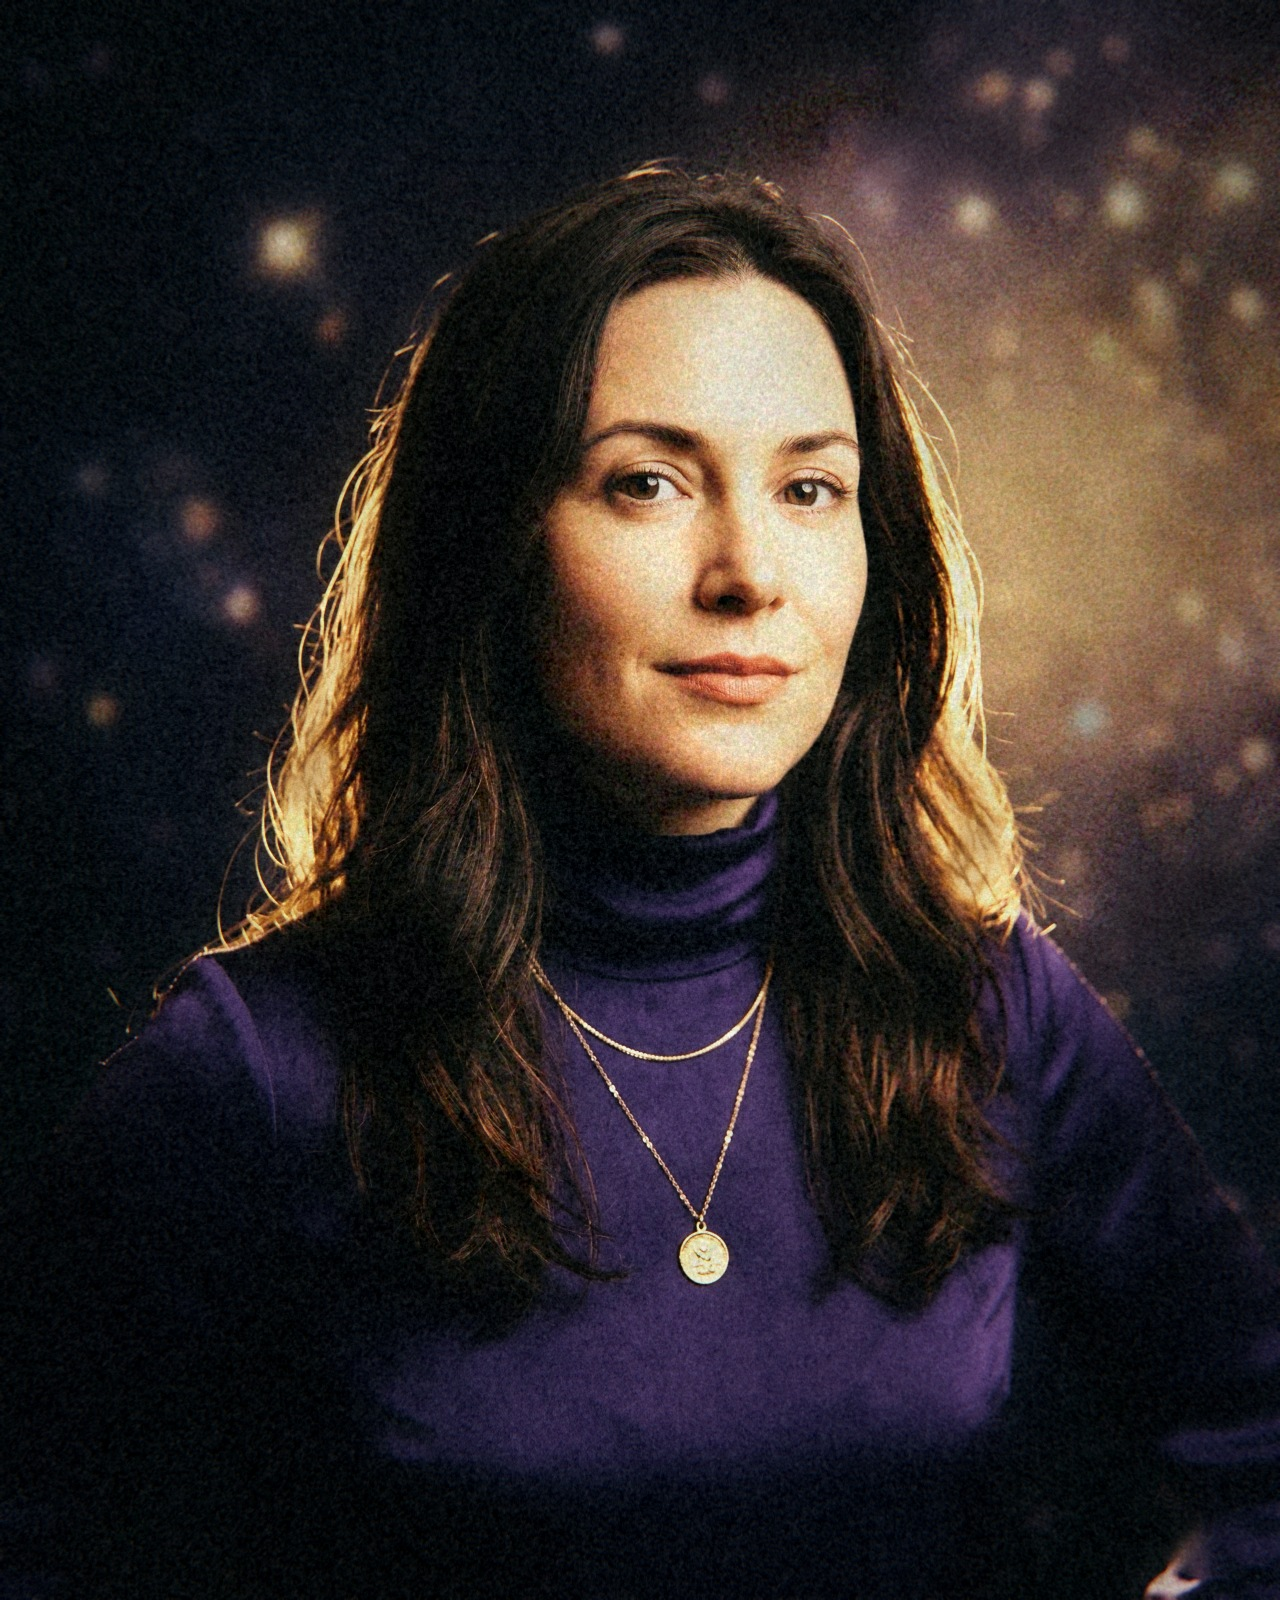
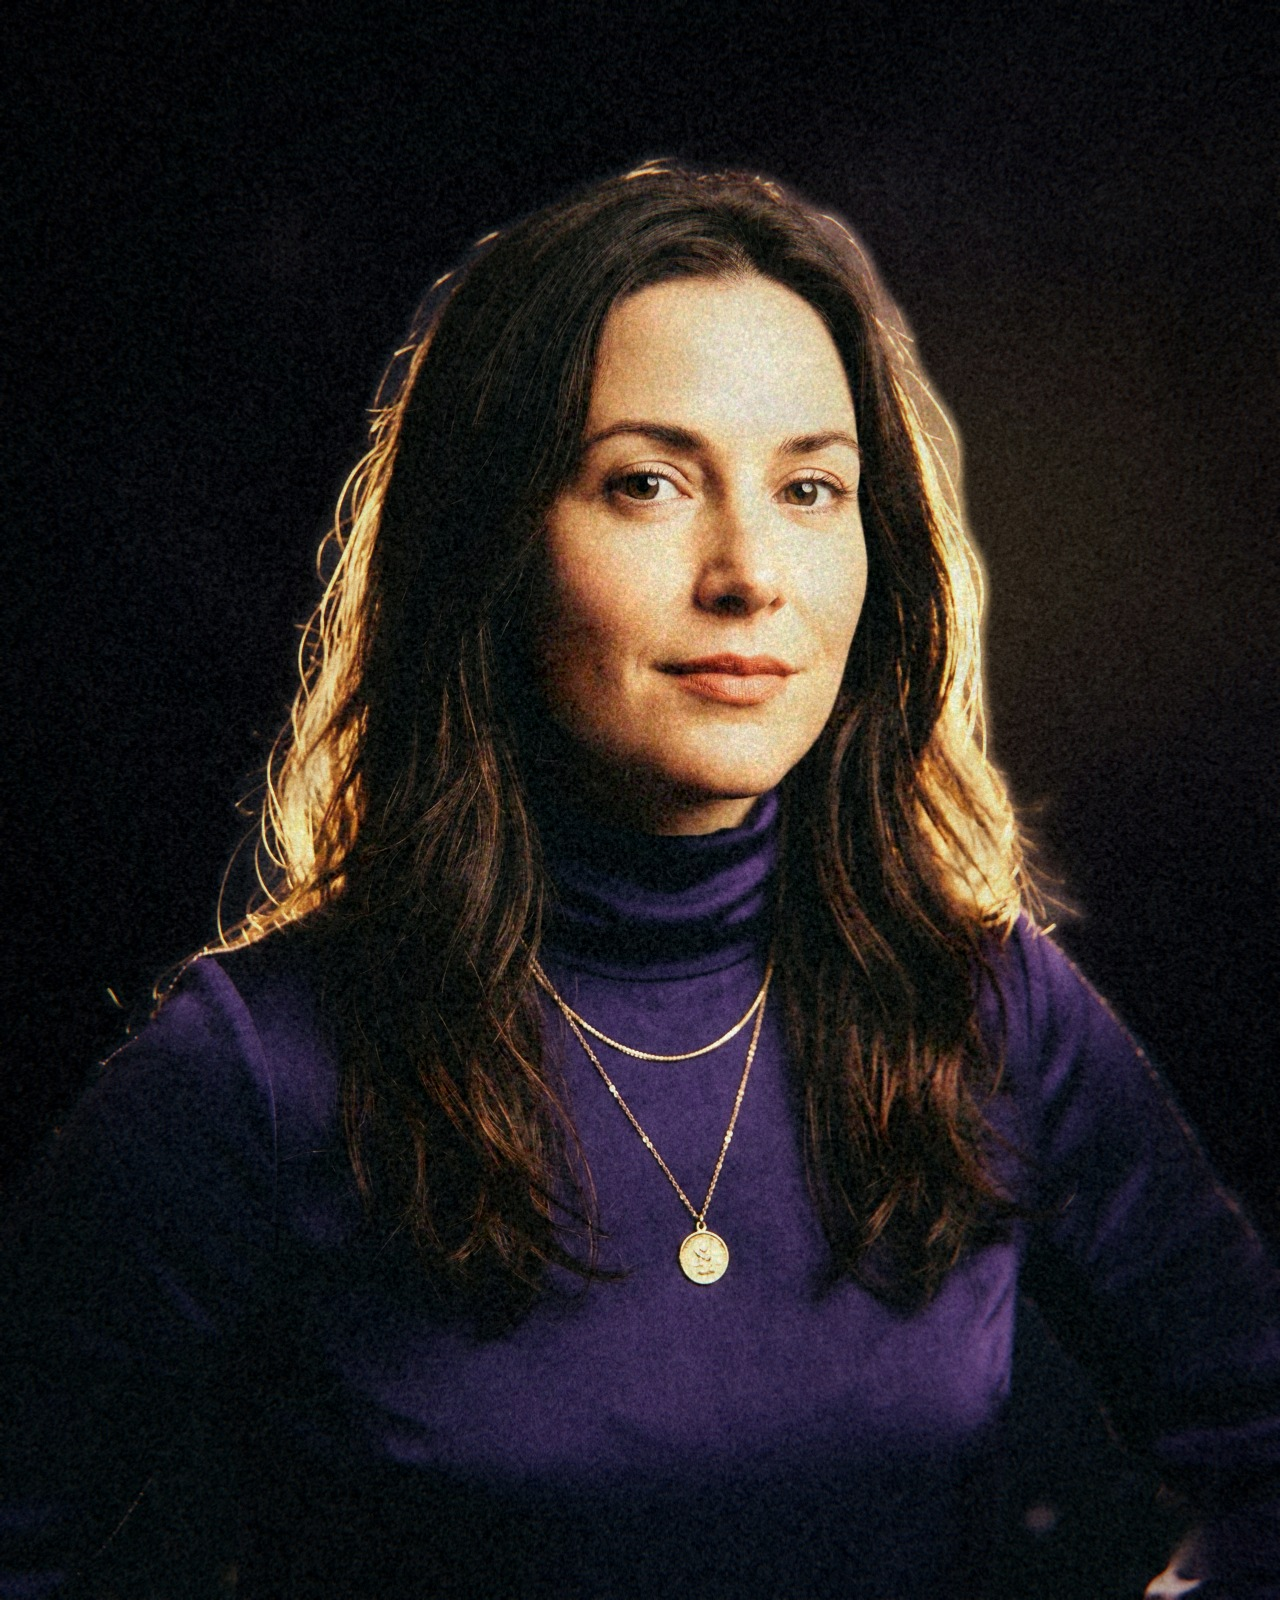
polish(olivia-portrait): v7 — u2net-precise mask, Avedon-dark background
The single biggest jump in the portrait pipeline yet.

Previous subject masks were color-threshold approximations: skin +
turtleneck + dark-value-as-hair. They captured ~85% of the silhouette
but leaked at hair edges and where the cosmic background's purple
overlapped the turtleneck threshold. Heavy bg kill was impossible
without halos.

v7 uses rembg's u2net person-segmentation for a pixel-accurate
silhouette (flyaway hairs, shoulders, jewelry all cleanly separated).
That enables:

- **Near-black background** (30% of blurred cosmic + warm-purple floor)
  — Avedon / Seliger direction, face genuinely floats
- **No hair halo** when bg is crushed — every strand is correctly masked
- **True focal subject** — viewer's eye goes straight to the face
- **Skin texture + chroma noise confined to subject zone** — bg stays
  untextured so the grain doesn't pull the eye away from the face

Combined with the existing pipeline (Portra split-tone, lifted blacks,
rolled highlights, dual-frequency grain, CA, halation, vignette,
rim-light desat), result reads as editorial magazine portrait, not
AI cosmic stock photo.

File size similar (574KB vs 591KB) because grain compressibility is
the dominant factor.

Dependency added: rembg + onnxruntime (installs u2netp.onnx on first
run, ~4.6MB cached to ~/.u2net/).

diff --git a/website/scripts/deai/portrait.py b/website/scripts/deai/portrait.py
@@ -1,74 +1,77 @@
-"""Portrait v6 — mirror the video v6 per-frame pipeline exactly.
+"""Portrait v7 — u2net-precise subject mask, aggressive bg kill.
 
-The still portrait and the video frames should have identical grade so
-they feel like the same shoot. The video uses subject_mask = skin +
-turtleneck + hair_ish (hair region), portrait v4 used just skin +
-turtleneck. This unifies them.
+Previous mask (v6) = color-threshold skin + turtleneck + dark=hair_ish.
+It was ~85% accurate — some bg leaked into the subject zone where the
+cosmic nebula hue overlapped the purple turtleneck threshold, and hair
+edges were soft.
 
-Usage:
-    python3 portrait.py <input.jpg> <output.jpg>
+v7 uses u2net person-segmentation from rembg. Result is pixel-accurate
+across hair, shoulders, jewelry. That lets us:
 
-If no args given, defaults to the Olivia portrait paths.
+- push background much darker without halo
+- apply different texture to subject vs bg (subject: skin noise; bg: stays
+  untextured and defocused)
+- get a genuinely flat Avedon-style backdrop feel
 """
-import sys
+
 from pathlib import Path
 import cv2
 import numpy as np
+from rembg import remove, new_session
+from PIL import Image
 
-_HERE = Path(__file__).resolve().parents[2]
-DEFAULT_SRC = _HERE / "public" / "olivia" / "portrait-original.jpg"
-DEFAULT_OUT = _HERE / "public" / "olivia" / "portrait.jpg"
+SRC = Path("/tmp/portrait-pre-degrade.jpg")
+OUT = Path("/Users/macbookpro/olivia-arcana/website/public/olivia/portrait.jpg")
 
-SRC = Path(sys.argv[1]) if len(sys.argv) > 1 else DEFAULT_SRC
-OUT = Path(sys.argv[2]) if len(sys.argv) > 2 else DEFAULT_OUT
-
-if not SRC.exists():
-    print(f"error: source {SRC} does not exist", file=sys.stderr)
-    sys.exit(1)
-
+# Load image.
 img = cv2.imread(str(SRC), cv2.IMREAD_COLOR)
 h, w = img.shape[:2]
 rgb = cv2.cvtColor(img, cv2.COLOR_BGR2RGB).astype(np.float32) / 255.0
 
-# Subject mask — identical to video v6.
+# --- u2net precise subject mask ---
+print("computing u2net mask...")
+session = new_session('u2netp')
+mask_pil = remove(Image.open(str(SRC)), session=session, only_mask=True)
+subject_mask = np.array(mask_pil).astype(np.float32) / 255.0
+# Slight dilation + blur for soft edge.
+subject_mask_d = cv2.dilate(subject_mask, np.ones((7, 7), np.uint8))
+subject_mask_soft = cv2.GaussianBlur(subject_mask_d, (15, 15), 0)
+# Keep two versions: hard for defocus, soft for grade blending.
+subject_hard = np.clip(subject_mask, 0, 1).astype(np.float32)
+subject_soft = np.clip(subject_mask_soft, 0, 1).astype(np.float32)
+
+# Skin sub-mask (intersect u2net with color-based skin detection).
 bgr255 = cv2.cvtColor((rgb * 255).astype(np.uint8), cv2.COLOR_RGB2BGR)
 ycrcb = cv2.cvtColor(bgr255, cv2.COLOR_BGR2YCrCb)
 Cr, Cb = ycrcb[..., 1], ycrcb[..., 2]
 skin = ((Cr >= 133) & (Cr <= 180) & (Cb >= 77) & (Cb <= 130)).astype(np.float32)
-skin_soft = cv2.GaussianBlur(skin, (41, 41), 0)
-hsv_ = cv2.cvtColor(rgb, cv2.COLOR_RGB2HSV)
-Hh, Ss, Vv = hsv_[..., 0], hsv_[..., 1], hsv_[..., 2]
-turtleneck = ((Hh > 240) & (Hh < 290) & (Ss > 0.25) & (Vv > 0.08) & (Vv < 0.6)).astype(np.float32)
-turtleneck = cv2.GaussianBlur(turtleneck, (41, 41), 0)
-hair_ish = ((Vv < 0.35)).astype(np.float32)
-hair_ish = cv2.GaussianBlur(hair_ish, (91, 91), 0)
-subject_mask = np.clip(skin_soft + turtleneck * 0.9 + hair_ish * 0.35, 0, 1)
-subject_mask = cv2.dilate(subject_mask, np.ones((15, 15), np.uint8))
-subject_mask = cv2.GaussianBlur(subject_mask, (91, 91), 0)
-subject_mask = np.clip(subject_mask, 0, 1)
+skin_soft = cv2.GaussianBlur(skin, (41, 41), 0) * subject_hard
 
-# 1) bg pull + defocus
-bg_only = 1 - subject_mask
-rgb = rgb * (1 - 0.26 * bg_only[..., None])
-bg_heavy = cv2.GaussianBlur(rgb, (0, 0), sigmaX=18.0)
-rgb = rgb * subject_mask[..., None] + bg_heavy * (1 - subject_mask[..., None])
+# 1) Background kill + defocus — now very aggressive since mask is precise.
+bg_only = 1 - subject_soft
+# Heavy blur on bg.
+bg_blur = cv2.GaussianBlur(rgb, (0, 0), sigmaX=28.0)
+# Pull bg toward very dark (but not pure black — leave some film toe).
+bg_dark = (bg_blur * 0.30 + np.array([0.018, 0.015, 0.024], dtype=np.float32) * 0.7).astype(np.float32)
+# Composite.
+rgb = (rgb * subject_soft[..., None] + bg_dark * (1 - subject_soft[..., None])).astype(np.float32)
 
-# 2) lift subject mids
-rgb = rgb + 0.038 * subject_mask[..., None] * (1 - rgb)
+# 2) Lift subject mids slightly.
+rgb = (rgb + 0.042 * subject_soft[..., None] * (1 - rgb)).astype(np.float32)
 
-# 3) rim-light desat (only extreme)
+# 3) Rim-light desat (extreme orange on hair edge).
 hsv = cv2.cvtColor(rgb, cv2.COLOR_RGB2HSV)
 H, S, V = hsv[..., 0], hsv[..., 1], hsv[..., 2]
 rim = (((H >= 18) & (H <= 48)) & (S > 0.40) & (V > 0.45)).astype(np.float32)
-rim_only = rim * (1 - skin_soft)
+rim_only = rim * (1 - skin_soft) * subject_soft
 rim_only = cv2.GaussianBlur(rim_only, (21, 21), 0)
-hsv[..., 1] = hsv[..., 1] * (1 - 0.32 * rim_only)
-hsv[..., 2] = hsv[..., 2] * (1 - 0.12 * rim_only)
+hsv[..., 1] = hsv[..., 1] * (1 - 0.42 * rim_only)
+hsv[..., 2] = hsv[..., 2] * (1 - 0.18 * rim_only)
 rgb = cv2.cvtColor(hsv, cv2.COLOR_HSV2RGB)
 
-# 4) grade (matches video)
+# 4) Grade.
 hsv = cv2.cvtColor(rgb, cv2.COLOR_RGB2HSV)
-hsv[..., 1] = np.clip(hsv[..., 1] * 0.80, 0, 1)
+hsv[..., 1] = np.clip(hsv[..., 1] * 0.82, 0, 1)
 rgb = cv2.cvtColor(hsv, cv2.COLOR_HSV2RGB)
 
 lab = cv2.cvtColor(rgb, cv2.COLOR_RGB2LAB)
@@ -77,13 +80,13 @@ mid_mask = np.clip(1.0 - np.abs(L - 0.48) * 2.3, 0, 1) ** 1.1
 shadow_mask = np.clip(1.0 - L * 1.3, 0, 1) ** 1.6
 highlight_mask = np.clip((L - 0.6) / 0.4, 0, 1) ** 1.4
 
-warm = np.zeros_like(rgb); warm[..., 0] = 0.028; warm[..., 1] = 0.010; warm[..., 2] = -0.014
+warm = np.zeros_like(rgb); warm[..., 0] = 0.030; warm[..., 1] = 0.011; warm[..., 2] = -0.014
 cool = np.zeros_like(rgb); cool[..., 0] = -0.012; cool[..., 1] = 0.004; cool[..., 2] = 0.022
 hl = np.zeros_like(rgb); hl[..., 0] = 0.012; hl[..., 1] = 0.008; hl[..., 2] = -0.010
 rgb = rgb + warm * mid_mask[..., None] + cool * shadow_mask[..., None] + hl * highlight_mask[..., None]
 rgb = np.clip(rgb, 0, 1)
 
-# 5) curves
+# 5) Curves (film S + lifted blacks + rolled highlights).
 rgb = rgb * (1 - 0.038) + 0.038
 rgb = rgb + 0.42 * (rgb - 0.5) * rgb * (1 - rgb) * 4.0
 rgb = np.clip(rgb, 0, 1)
@@ -91,14 +94,14 @@ mask_hi = np.clip((rgb - 0.86) / 0.14, 0, 1)
 rgb = rgb - mask_hi * (rgb - 0.86) * 0.38
 rgb = np.clip(rgb, 0, 1)
 
-# 6) cheekbone softening
+# 6) Cheekbone softening.
 L01 = cv2.cvtColor((rgb * 255).astype(np.uint8), cv2.COLOR_RGB2GRAY).astype(np.float32) / 255.0
 hot = np.clip((L01 - 0.72) / 0.28, 0, 1) * skin_soft
 hot_blur = cv2.GaussianBlur(hot, (0, 0), sigmaX=9)
 rgb = rgb * (1 - hot_blur[..., None] * 0.065)
 
-# 7) skin texture + chroma noise
-rng = np.random.default_rng(211)
+# 7) Skin texture + chroma noise (only in subject zone).
+rng = np.random.default_rng(311)
 hf = rng.standard_normal((h, w)).astype(np.float32)
 hf = cv2.GaussianBlur(hf, (0, 0), sigmaX=0.95)
 hf = (hf - hf.mean()) / (hf.std() + 1e-6)
@@ -118,7 +121,7 @@ cr_noise = (cr_noise - cr_noise.mean()) / (cr_noise.std() + 1e-6)
 ycr[..., 1] = np.clip(ycr[..., 1] + cr_noise * 0.008 * skin_soft, 0, 1)
 rgb = cv2.cvtColor((ycr * 255).astype(np.uint8), cv2.COLOR_YCrCb2RGB).astype(np.float32) / 255.0
 
-# 8) dual grain
+# 8) Dual film grain (shadow-weighted).
 grain_fine = rng.standard_normal((h, w)).astype(np.float32)
 grain_fine = cv2.GaussianBlur(grain_fine, (0, 0), sigmaX=0.55)
 grain_fine = (grain_fine - grain_fine.mean()) / (grain_fine.std() + 1e-6)
@@ -131,14 +134,14 @@ coarse_strength = 0.022 * shadow_weight
 for c in range(3):
     rgb[..., c] = np.clip(rgb[..., c] + grain_fine * fine_strength + grain_coarse * coarse_strength, 0, 1)
 
-# 9) vignette
+# 9) Vignette.
 yy, xx = np.mgrid[0:h, 0:w].astype(np.float32)
 cx, cy = w / 2, h / 2
 r2 = ((xx - cx) / (w * 0.55)) ** 2 + ((yy - cy) / (h * 0.55)) ** 2
-vignette = 1.0 - 0.20 * np.clip(r2 ** 1.22, 0, 1)
+vignette = 1.0 - 0.22 * np.clip(r2 ** 1.22, 0, 1)
 rgb = rgb * vignette[..., None]
 
-# 10) CA
+# 10) CA.
 shift = 1.05
 nx = (xx - cx) / (cx + 1e-6)
 ny = (yy - cy) / (cy + 1e-6)
@@ -154,7 +157,7 @@ B_ = cv2.remap((rgb[..., 2] * 255).astype(np.uint8), mxb, myb, cv2.INTER_LINEAR,
 rgb[..., 0] = R_
 rgb[..., 2] = B_
 
-# 11) halation
+# 11) Halation.
 bright = np.clip((L01 - 0.78) / 0.22, 0, 1)
 bright_blur = cv2.GaussianBlur(bright, (0, 0), sigmaX=11)
 halation = np.zeros_like(rgb)